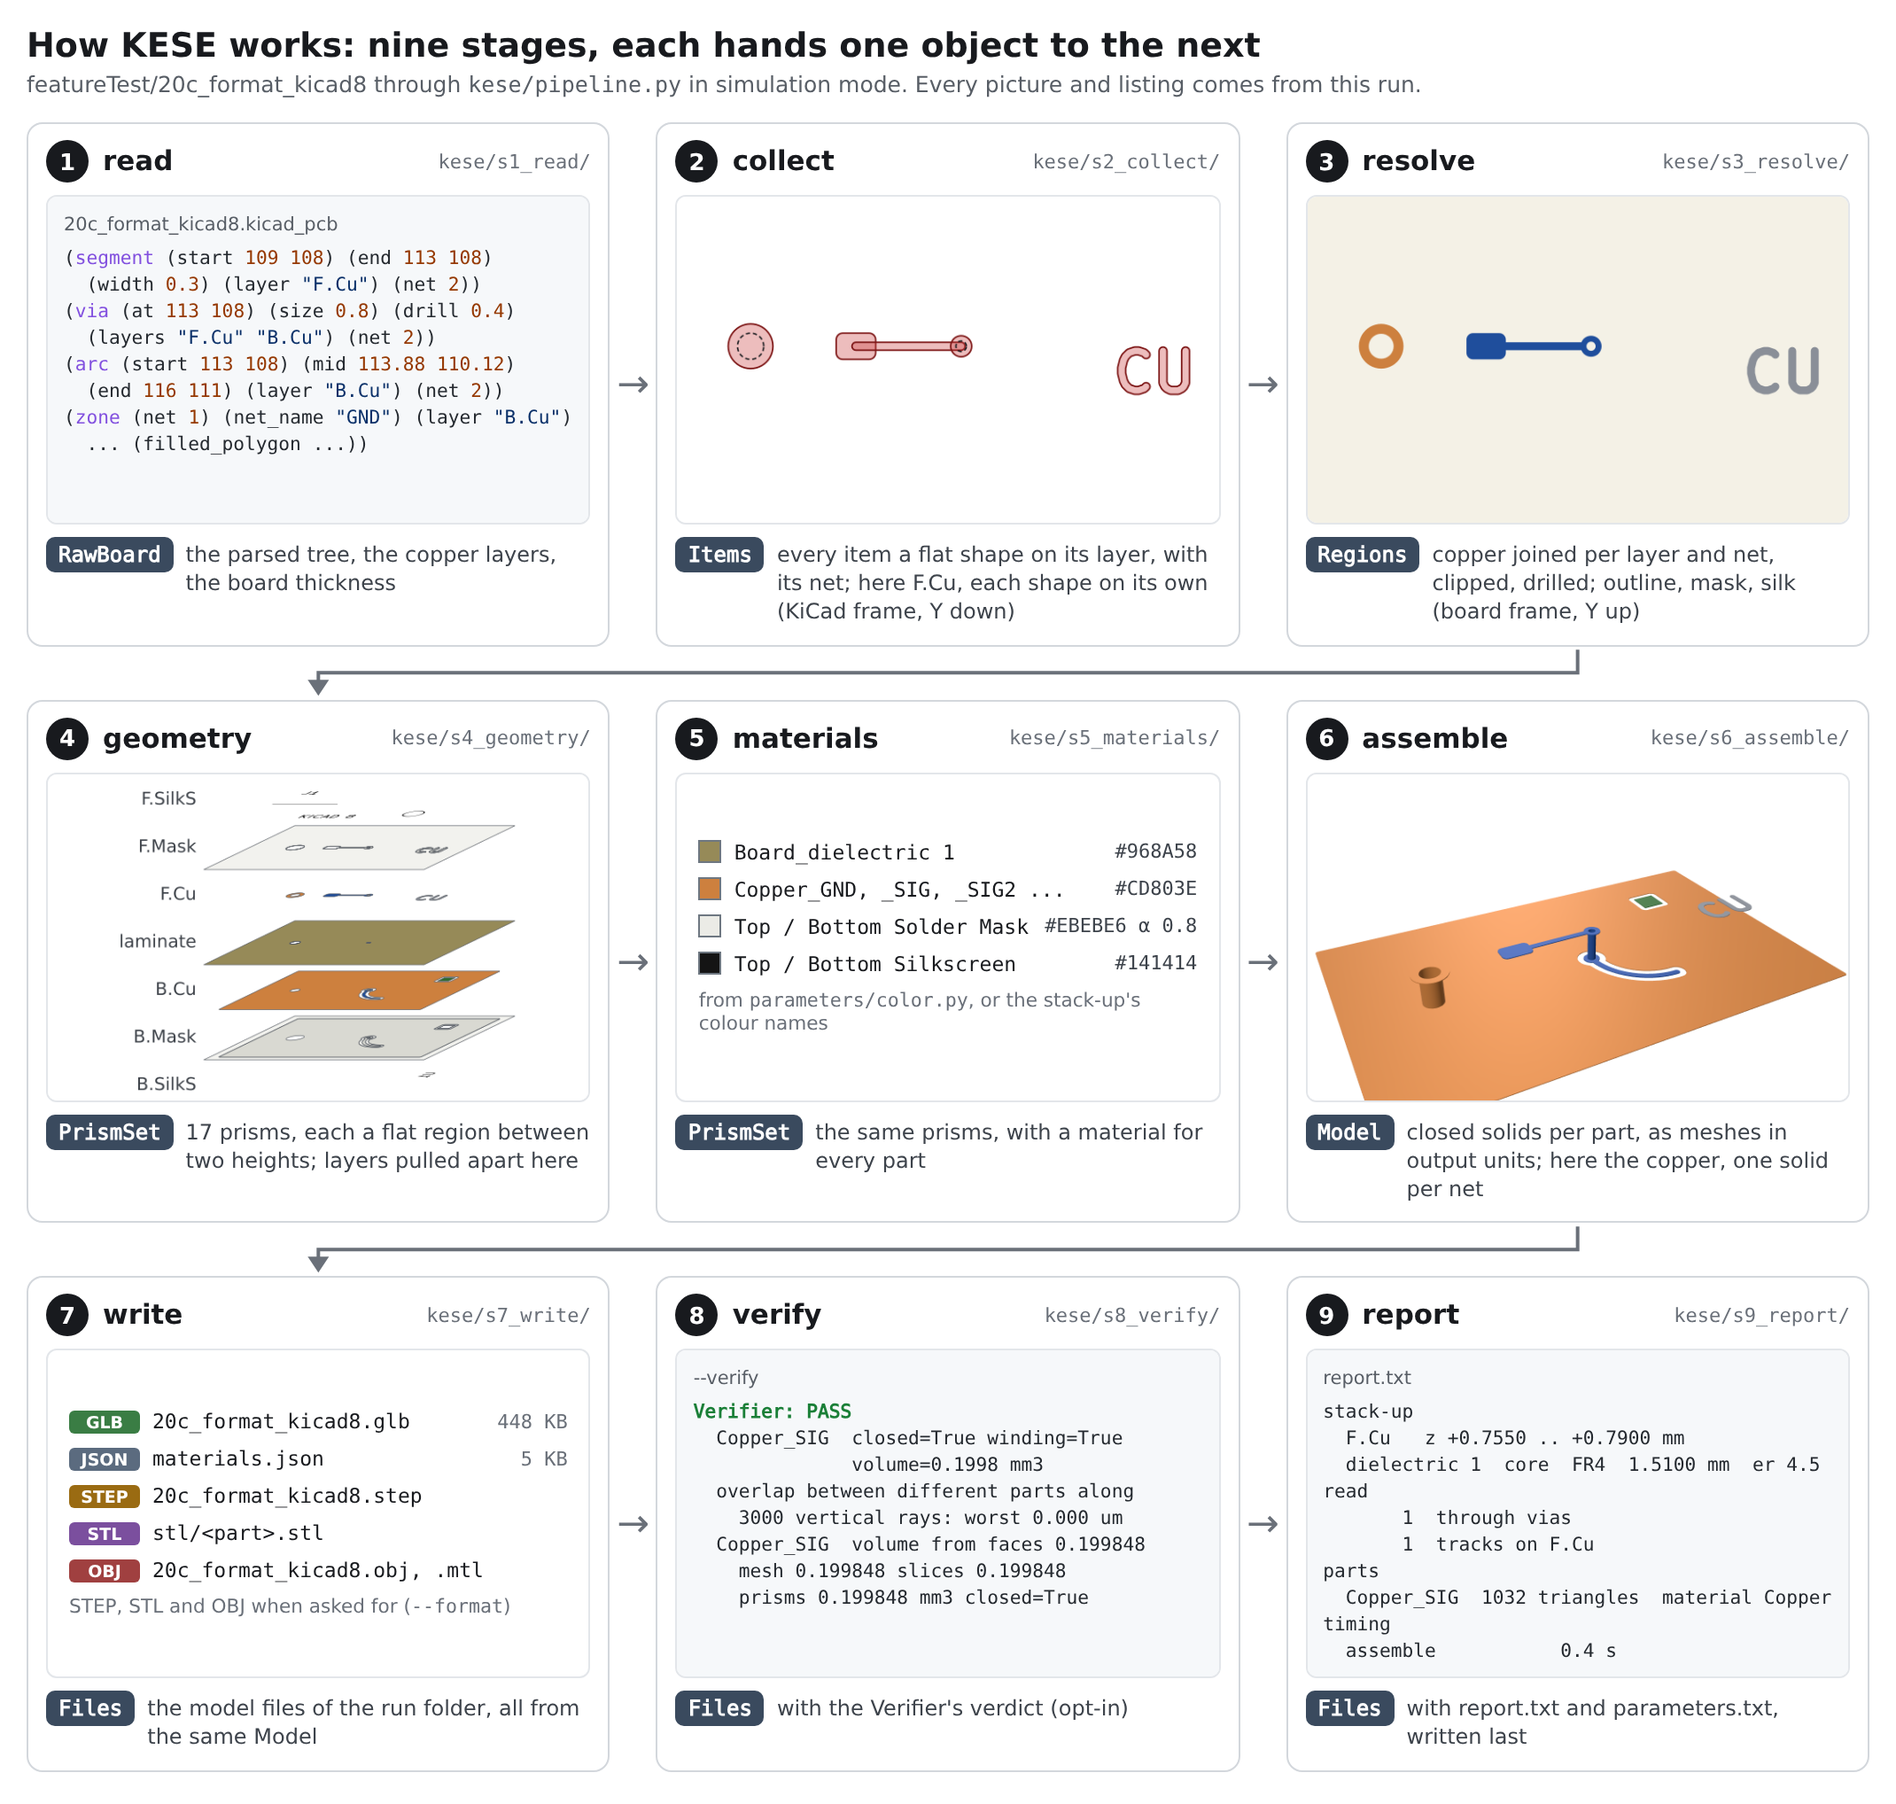
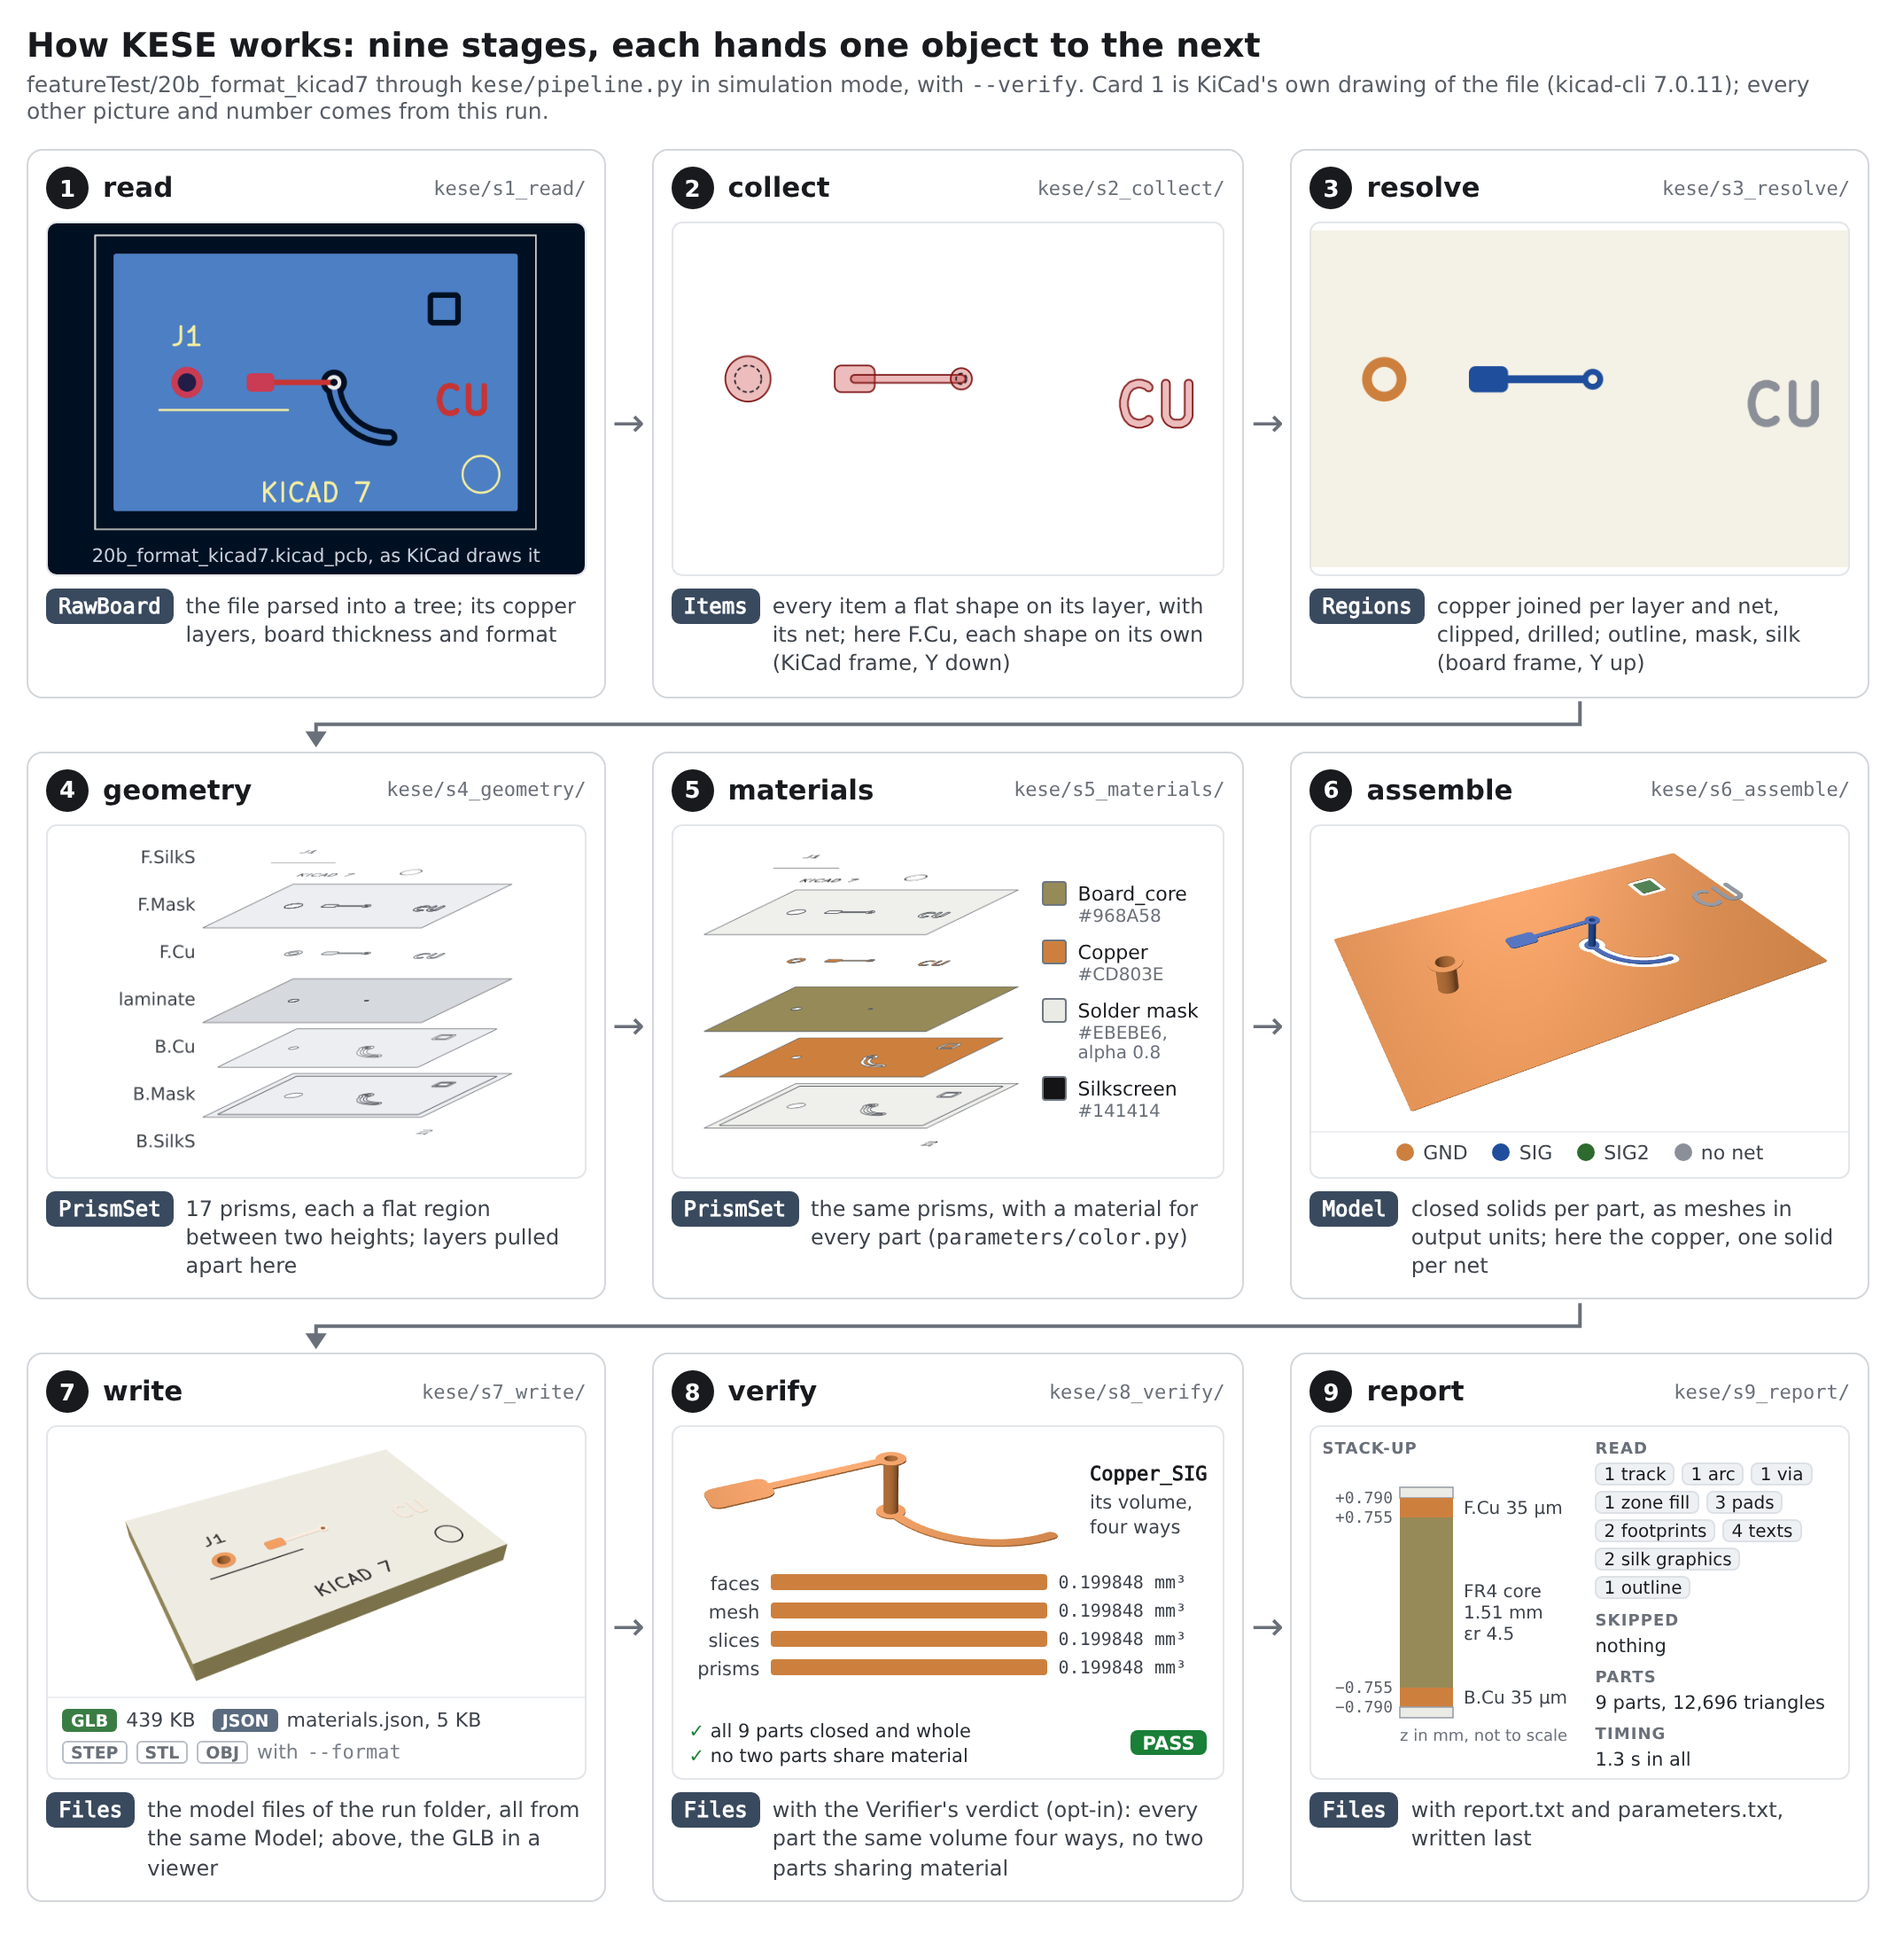
Redo the stage pictures, and add the finish and text close-ups
Working Principle: card 1 of the nine stages is now board
20b_format_kicad7 as KiCad draws it, and no card shows code any more;
in one net's solid (stage 6) the volume check is four equal bars, one
for each way the volume is found. Stack-Up Model: the cut through pad 1
of J1 gets two closer zooms, on the nickel and on the 80 nm of gold,
drawn from KESE's exact slices. Silkscreens: TP7 of
featureTest/11_zones and J2 of featureTest/01_holes_slotted as
kicad-cli 7.0.11 plots them beside KESE's ink, their outlines at most
2 um apart, with a close-up of where they differ. It was the page's
last wanted picture.

diff --git a/docs/wiki/Stack-Up-Model.md b/docs/wiki/Stack-Up-Model.md
@@ -4,7 +4,7 @@ The stack-up decides the height of every layer. It is read once per board
 (`kese/s2_collect/stackup.py`), its heights are computed once (`kese/s4_geometry/heights.py`), and
 it is printed at the top of `report.txt`, so every z value in the model can be checked against it.
 
-![Board tests/boards/six_layer cut through pad 1 of J1 at true scale: the silkscreen on the mask, the mask on the laminate faces, the ENIG finish on the pad, the outer copper on the faces, the four inner copper layers between five dielectrics, the plated barrel; every layer listed with its thickness and its heights from the laminate mid-plane, and close-ups of the silk on the mask and of the pad's top edge](https://raw.githubusercontent.com/RolandThsive/KiCad-EM-Stackup-Exporter-KESE/main/docs/images/stackup_1_cross_section.png)
+![Board tests/boards/six_layer cut through pad 1 of J1 at true scale: the silkscreen on the mask, the mask on the laminate faces, the ENIG finish on the pad, the outer copper on the faces, the four inner copper layers between five dielectrics, the plated barrel; every layer listed with its thickness and its heights from the laminate mid-plane, and close-ups of the silk on the mask and of the pad's top edge, then two closer still: the finish at the pad's edge, 5 µm of nickel under 0.08 µm of gold beside the mask, and the 80 nm of gold alone](https://raw.githubusercontent.com/RolandThsive/KiCad-EM-Stackup-Exporter-KESE/main/docs/images/stackup_1_cross_section.png)
 
 ## 7.1 Heights
 
@@ -227,7 +227,7 @@ h_i^{*} = s \cdot h_i \qquad (7.13)
 | Via barrel from layer $`l_i`$ to $`l_j`$ | between the copper layers it joins; outer copper caps it, inner copper is drilled through, so the barrel passes through inner bands ([Copper And Traces](Copper-And-Traces.md)) |
 | Solder mask | from the laminate face: mask thickness over laminate, copper + mask thickness over copper ([Solder Masks](Solder-Masks.md)) |
 | Silkscreen | on top of the mask surface ([Silkscreens](Silkscreens.md)) |
-| Surface finish | stacked on top of the outer copper where the mask is open ([Top And Bottom Copper Finishings](Copper-Finishings.md)) |
+| Surface finish | stacked on top of the outer copper where the mask is open (boxes 4 and 5 of the picture; [Top And Bottom Copper Finishings](Copper-Finishings.md)) |
 
 | Previous | Next |
 |:---|---:|

diff --git a/docs/wiki/Working-Principle.md b/docs/wiki/Working-Principle.md
@@ -1,6 +1,6 @@
 # 6. Working Principle
 
-![The nine stages of KESE as cards, read to report, each with its folder, a picture or listing of what it made for board 20c_format_kicad8, and the object it hands to the next stage: RawBoard, Items, Regions, PrismSet, PrismSet, Model, Files, Files, Files](https://raw.githubusercontent.com/RolandThsive/KiCad-EM-Stackup-Exporter-KESE/main/docs/images/wp_1_pipeline.png)
+![The nine stages of KESE as cards, read to report, each with its folder, a picture of what it made for board 20b_format_kicad7, and the object it hands to the next stage: RawBoard, Items, Regions, PrismSet, PrismSet, Model, Files, Files, Files. Card 1 shows the board file as KiCad draws it, card 8 one net's volume found four ways, and card 9 what report.txt lists](https://raw.githubusercontent.com/RolandThsive/KiCad-EM-Stackup-Exporter-KESE/main/docs/images/wp_1_pipeline.png)
 
 KESE is one straight pipeline, `kese/pipeline.py`. Every stage is a folder in `kese/` with a
 `run(what the stage before made, job)` that returns what it makes:
@@ -60,7 +60,7 @@ parts[off] = shapely.set_precision(parts[off], grid())      # Geometry.SNAP_GRID
 
 ## 6.2 How A Part Becomes A Closed Solid
 
-![Stage 6 on one net of board 04_vias_blind_buried, a through via with a track on In3.Cu: its four prisms, its five slices between six heights, its six flat faces looking up or down, its walls, its 1,048 triangles, and the same volume found four ways](https://raw.githubusercontent.com/RolandThsive/KiCad-EM-Stackup-Exporter-KESE/main/docs/images/wp_2_solid.png)
+![Stage 6 on one net of board 04_vias_blind_buried, a through via with a track on In3.Cu: its four prisms, its five slices between six heights, its six flat faces looking up or down, its walls, its 1,048 triangles, and the same volume found four ways, from the prisms, the slices, the faces and the triangles, as four equal bars](https://raw.githubusercontent.com/RolandThsive/KiCad-EM-Stackup-Exporter-KESE/main/docs/images/wp_2_solid.png)
 
 Stage 6 needs no CAD kernel. Every part's surface is worked out in 2D from its prisms
 (`kese/core/boundary.py`) and then cut into triangles (`kese/core/boundary_mesh.py`):

diff --git a/docs/wiki/Silkscreens.md b/docs/wiki/Silkscreens.md
@@ -5,9 +5,6 @@ values, logos and outlines. `kese/s4_geometry/silkscreen.py` builds it from the 
 `kese/s3_resolve/silk.py` clips off the pads, and `kese/core/font.py` renders the text; the
 settings are in `parameters/silkscreen.py`.
 
-<!-- Picture still wanted for this page:
-     a reference designator rendered by KESE next to KiCad's own rendering of the same text (14.2). -->
-
 ![The same board eight times from the top in a simulation-mode GLB, once in each silkscreen colour: white and yellow silk on black mask, and black, not set, green, red, blue and purple silk on white mask, each labelled with its colour and hex value](https://raw.githubusercontent.com/RolandThsive/KiCad-EM-Stackup-Exporter-KESE/main/docs/images/silk_1_colors_simulation.png)
 
 ## 14.1 What Is Drawn
@@ -42,7 +39,10 @@ KESE ships KiCad's own stroke font, **newstroke**, converted to a JSON file
 (`kese/assets/fonts/kicad_newstroke.json.gz`, with its notice in `LICENSE_fonts.txt`). Text is laid
 out following KiCad's `STROKE_FONT` and `FONT::getLinePositions` code (`kese/core/font.py`), which
 KiCad 7, 8 and 9 share, so it lands where KiCad plots it: `tests/test_text_layout.py` checks
-sixteen texts against KiCad 7.0.11's plot to 5 µm.
+sixteen texts against KiCad 7.0.11's plot to 5 µm, and the two references below agree with it to
+2 µm.
+
+![TP7 from featureTest/11_zones and J2 at 45 degrees from featureTest/01_holes_slotted, each three times at the same scale: KiCad 7.0.11's plot with its strokes, KESE's silk region with its vertices, and KiCad's outline on KESE's ink, with a close-up of the join in P where they differ most, 2.0 µm where KESE draws KiCad's round corner as one chord, and a table of the outlines, centroids and areas of both](https://raw.githubusercontent.com/RolandThsive/KiCad-EM-Stackup-Exporter-KESE/main/docs/images/silk_5_kicad_text.png)
 
 ### 14.2.1 Layout Of One Line
 
